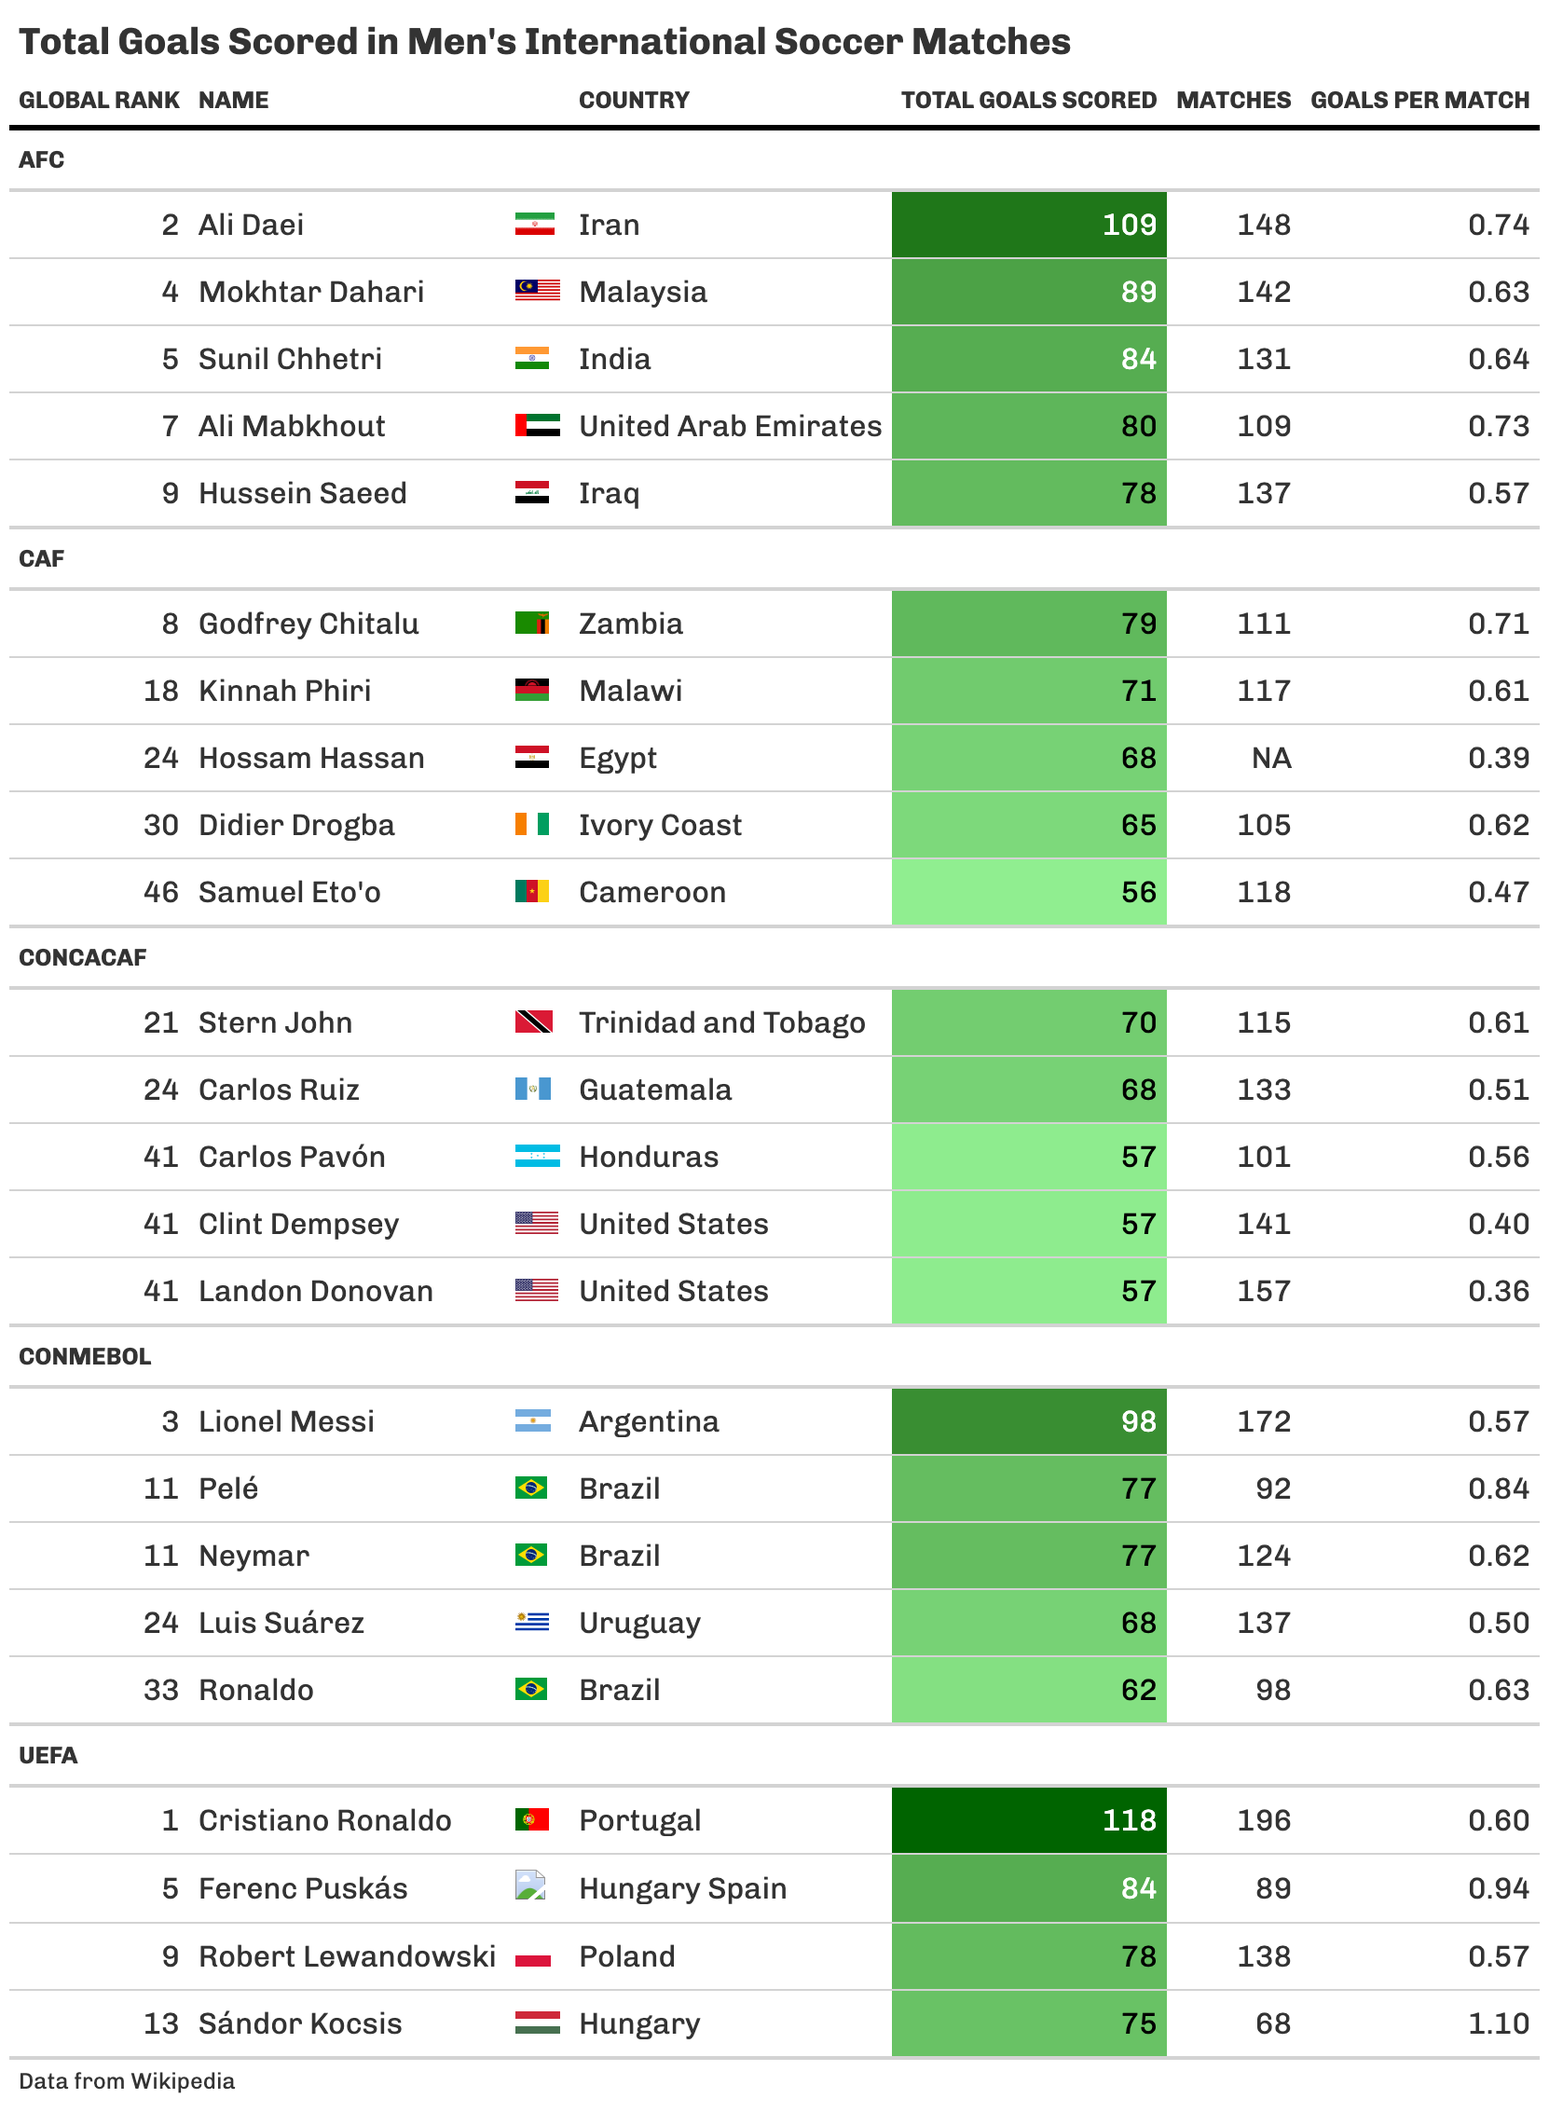
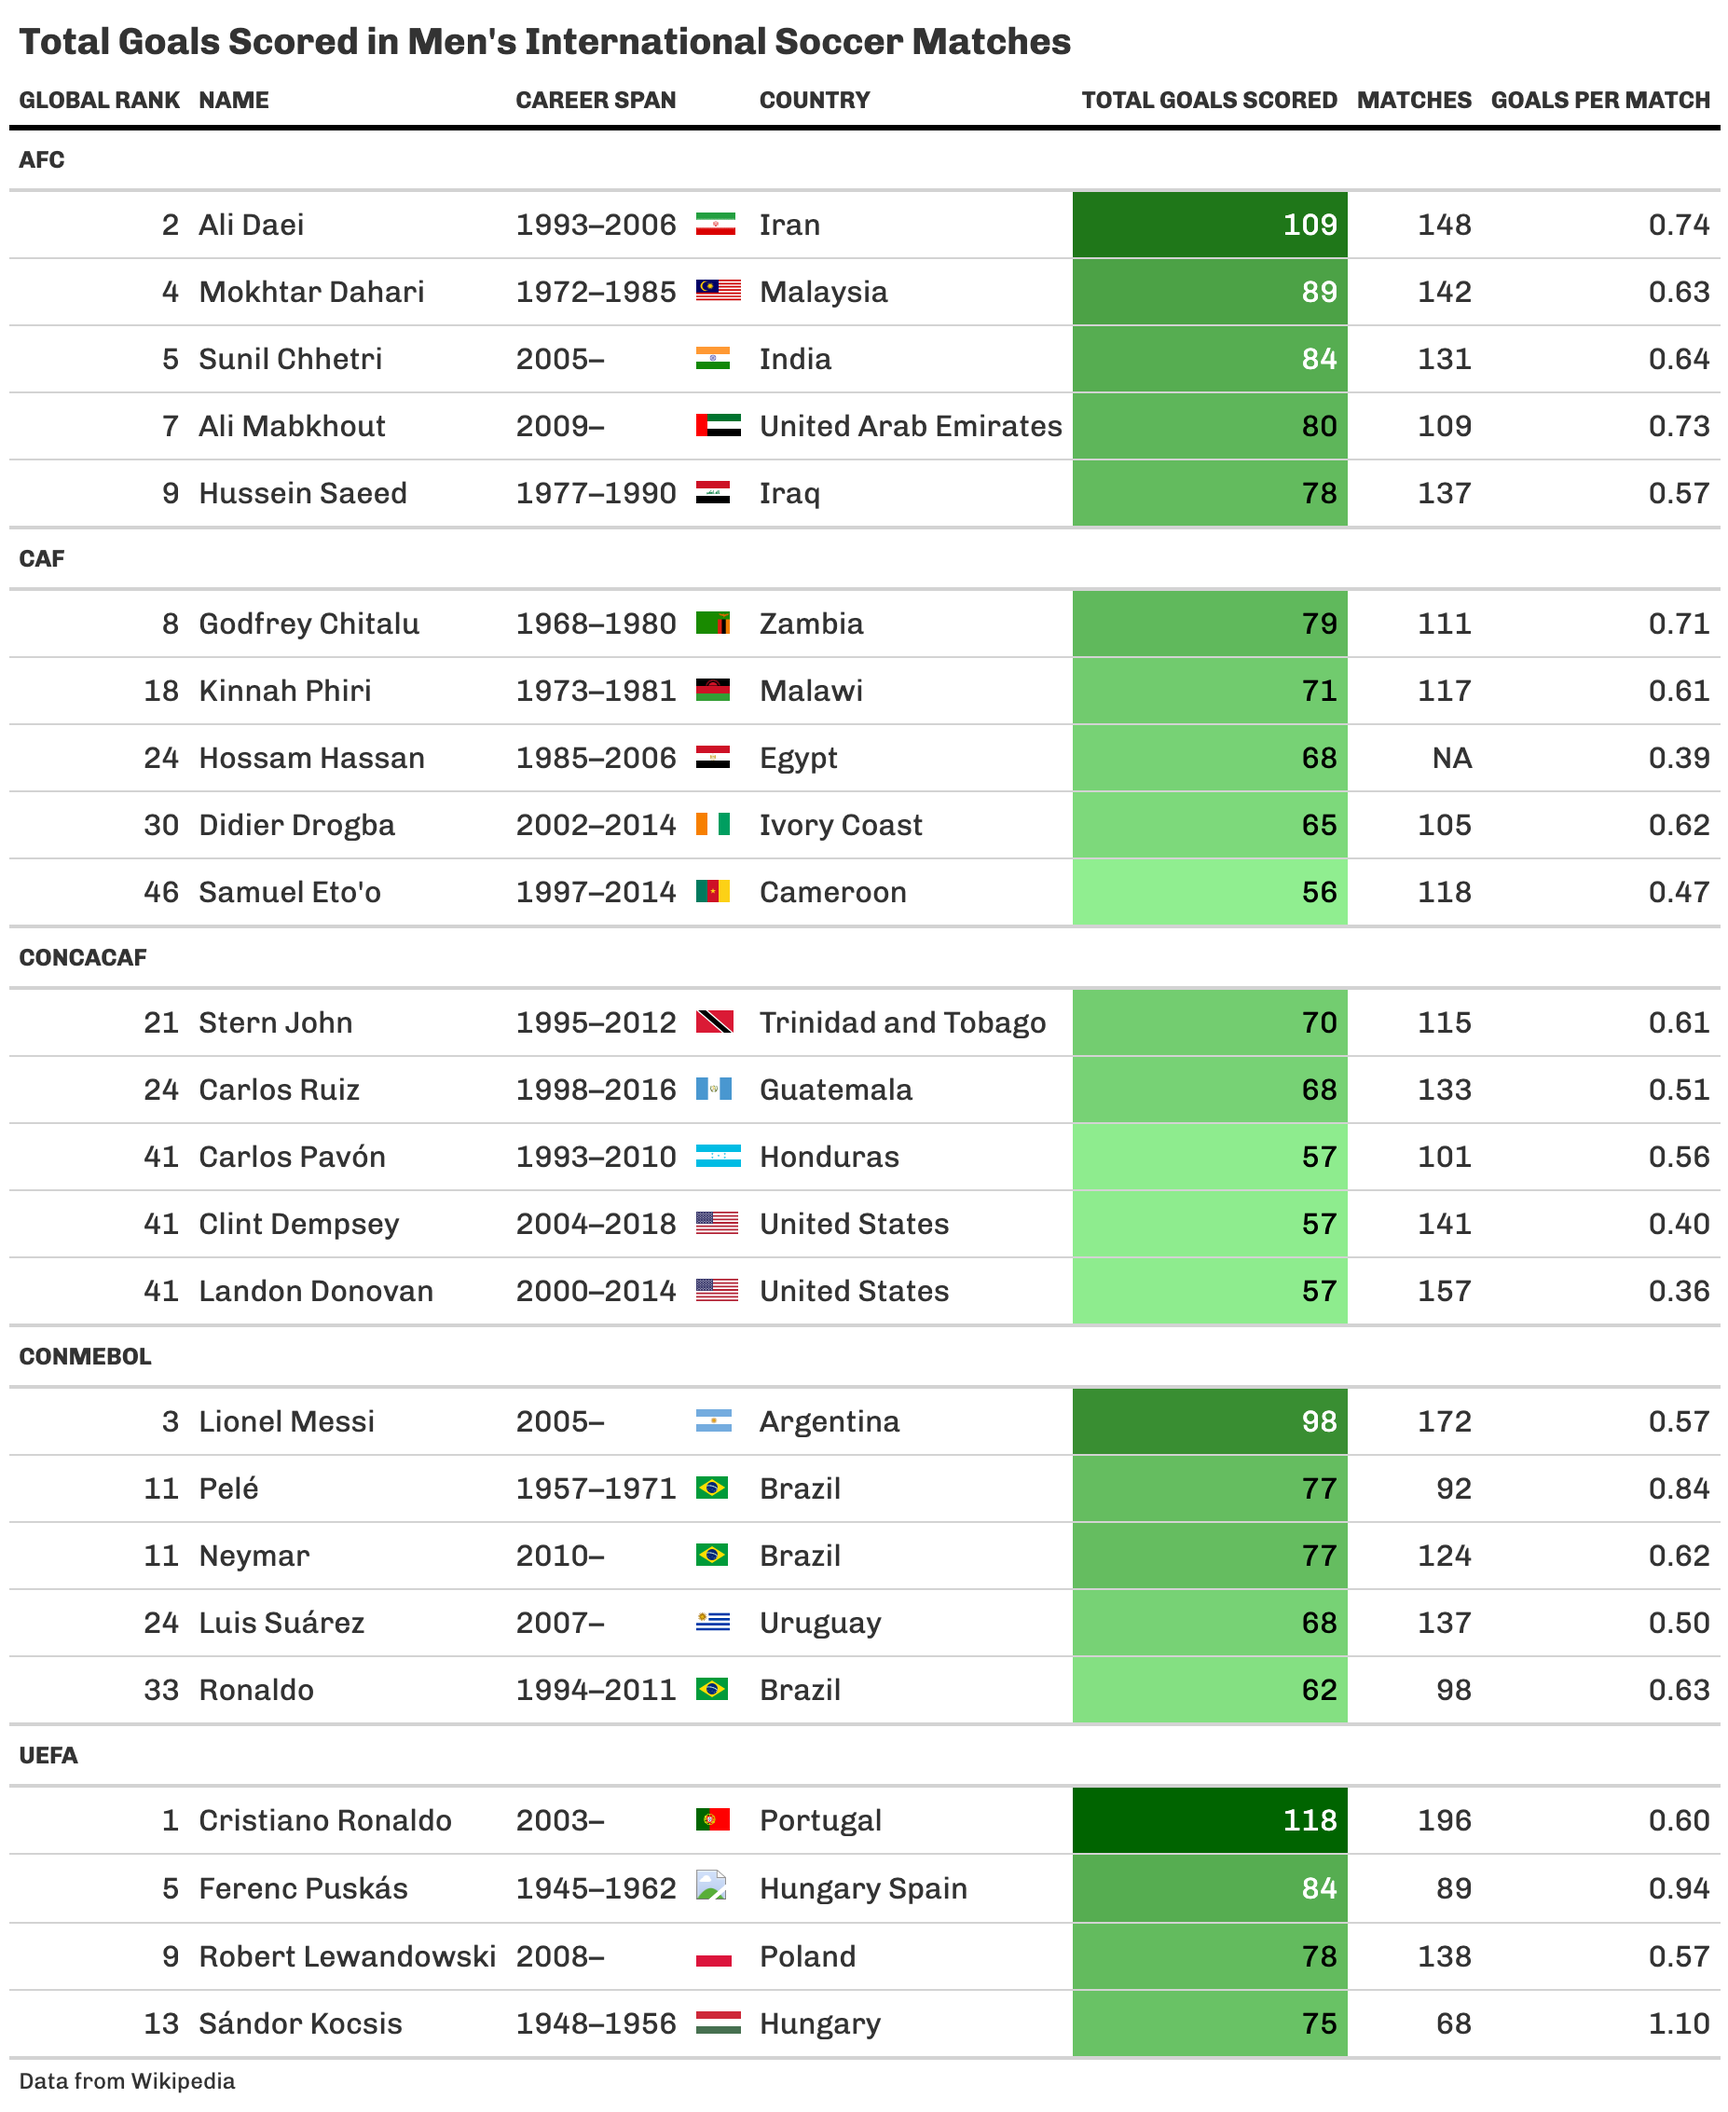
added career span to tables

diff --git a/top_goal_scorers_soccer/README.md b/top_goal_scorers_soccer/README.md
@@ -12,12 +12,12 @@ Some highlights:
 
 To-do:
 
-* I'd like to fix the flag issue for the Hungarian player (haven't figured out why `recode()` isn't working)
-* I should add in the periods that they played.
-* I should try to get the country label centered over the flags.
-* I could experiment with adding player images in the table.
-* UEFA only showing four scorers, which I should fix
-* I think a table or graphic on goals per match would be really cool
+[] I'd like to fix the flag issue for the Hungarian player (haven't figured out why `recode()` isn't working)
+[x] I should add in the periods that they played.
+[] I should try to get the country label centered over the flags.
+[] I could experiment with adding player images in the table.
+[] UEFA only showing four scorers, which I should fix
+[] I think a table or graphic on goals per match would be really cool
 
 ## Visualization  
 
